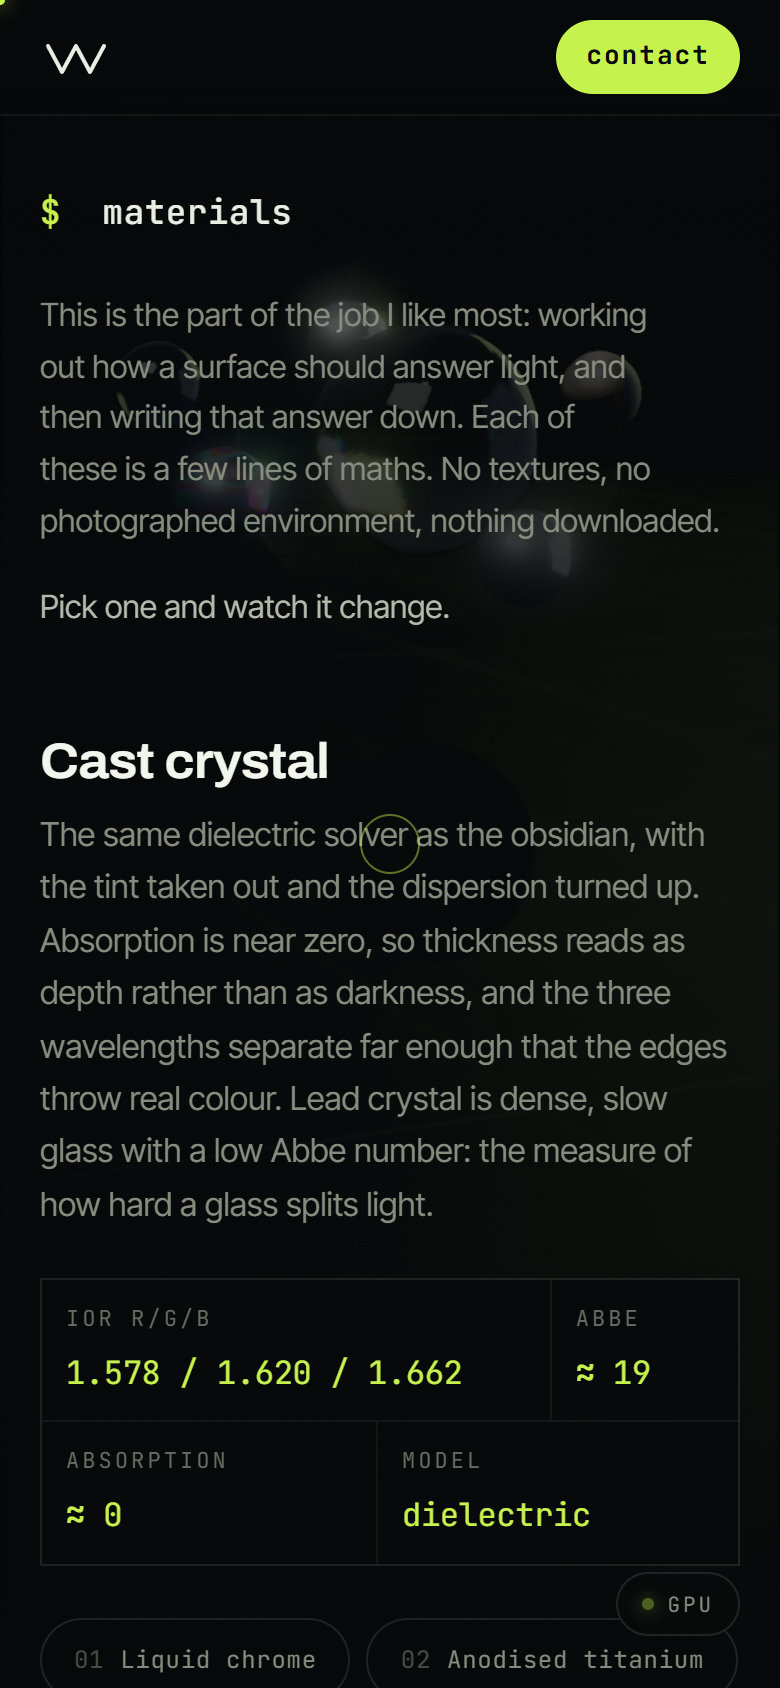
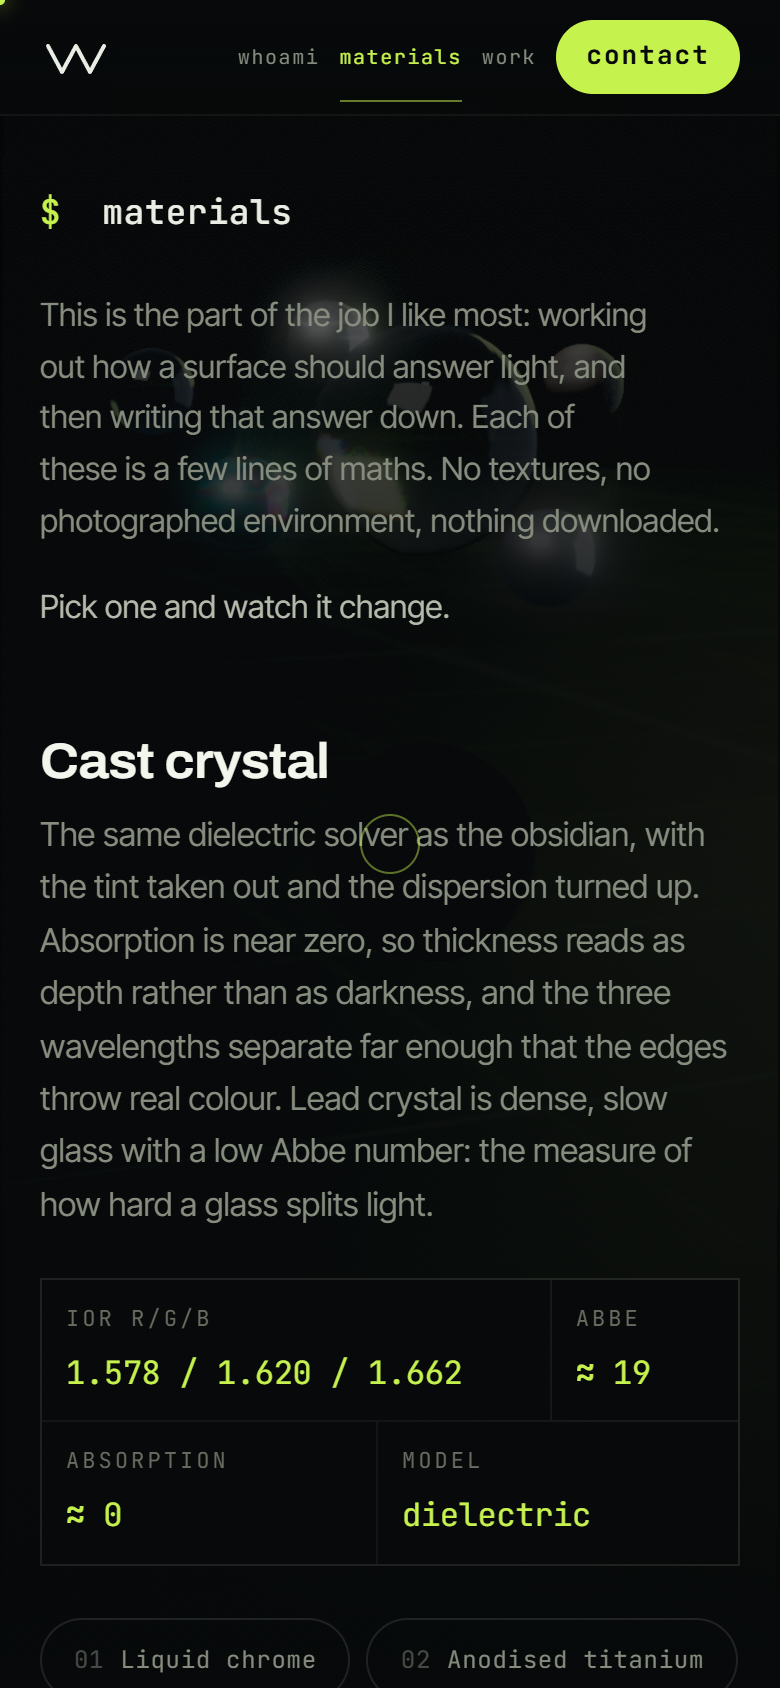
Make the site usable on a phone, which it was not
Auditing the layout at 390px is not the same as using a phone, and the
difference turned out to be most of the experience.

Every scroll swung the camera. A vertical drag is how a page is scrolled, and
the same handler read it as a drag to orbit: one ordinary swipe drove the pitch
to 0.697 against a limit of 0.7, so reading this page on a phone threw the
scene to its extreme tilt and let it drift back, over and over. A horizontal
swipe turned the view 4.1 radians. The gesture's axis is decided once now, on
the first movement worth calling a direction, and then held, so vertical
belongs to the page and horizontal orbits. Touch sensitivity came down by a
factor of five with it: a thumb travels much further than a mouse for the same
intent. Measured after: a vertical swipe leaves yaw and pitch at exactly zero.

There was no navigation. The rail is display:none on a phone and so were all
three section links, leaving the bar holding a contact button and nothing else,
with five sections reachable only by scrolling past everything in front of
them. They fit: at 11px the row measures 270px inside 390 and clears the
wordmark by twenty. The tap target is built out of padding rather than font
size, so the letters stay where the design wants them and the target is 44px.
Verified at 360, 390 and 430.

And there was a button that did nothing. The readout panel is hidden below
760px, being 262 pixels of developer telemetry with a graph in it and no
[…]

diff --git a/dist/artifact.html b/dist/artifact.html
@@ -920,8 +920,37 @@ body.cur-drag .c-lbl{ opacity:1; }
 
   .chip{ padding:11px 16px; }
   .mat-chips button{ padding:12px 16px; }
-  #nav nav a:not(.cta){ display:none; }
-  #hud{ display:none; }
+  /* These used to be hidden, which left a phone with no way to reach a
+     section short of scrolling past everything in front of it: the rail is
+     display:none here too, so the only thing left in the bar was the contact
+     button. They fit. At 11px with a tighter gap the row measures 270px
+     inside 390 and clears the wordmark by twenty.
+
+     The type is small, so the tap target is made out of padding rather than
+     out of font size: 44px tall inside a 58px bar, while the letters stay
+     where the design wants them. */
+  #nav nav{ gap:12px; }
+  #nav nav a:not(.cta){
+    display:inline-flex; align-items:center;
+    font-size:11px; padding:14px 0; min-height:44px;
+  }
+  @media (max-width:400px){
+    #nav nav{ gap:10px; }
+    #nav nav a:not(.cta){ font-size:10px; }
+  }
+  /* The readout is a 262px developer panel with a graph in it, and this is a
+     390px screen with no keyboard to press G on, so it does not come here.
+     The chip that opens it went on being drawn though: a control that does
+     nothing, sitting in the corner over whatever the page put there, eating
+     the tap meant for a material. Both go. */
+  #hud, #hud-toggle{ display:none; }
+
+  /* Two tap targets came in under the 24px floor: the wordmark at 22 and the
+     shortcuts button at 20. Padding, not type size, again. And the shortcuts
+     sheet lists keys, which is a strange offer to make to a device with no
+     keyboard, so on a phone it stops being offered. */
+  .nav-mark{ display:inline-flex; align-items:center; min-height:44px; }
+  .linkish[data-action="shortcuts"]{ display:none; }
   .sec{ padding:clamp(86px,11vh,132px) 0; }
 }
 
@@ -5244,8 +5273,14 @@ class Director {
 
   integrateOrbit(dt) {
     const o = this.orbit;
-    o.yaw += o.vy;
-    o.pitch = clamp(o.pitch + o.vp, -0.7, 1.0);
+    /* Scaled by dt, which it was not. Everything else in this file goes
+       through damp() precisely so it behaves the same at 30 fps and at 144;
+       these two lines added a whole frame's velocity per frame regardless,
+       so the same drag turned the camera two and a half times further on a
+       144 Hz panel than on a 60. The 60 keeps the tuning the constants were
+       chosen for. */
+    o.yaw += o.vy * dt * 60;
+    o.pitch = clamp(o.pitch + o.vp * dt * 60, -0.7, 1.0);
     o.vy = damp(o.vy, 0, 9, dt);
     o.vp = damp(o.vp, 0, 9, dt);
     // ease back toward the directed framing, slowly enough not to fight a drag
@@ -6134,6 +6169,7 @@ function wireInput() {
   const orbit = director.orbit;   // the director owns it; drag just adds velocity
 
   let dragging = false;
+  let dragAxis = null;   // 'x', 'y', or undecided; touch only
   let lastX = 0, lastY = 0;
   let downX = 0, downY = 0, downOrb = -1;
 
@@ -6146,8 +6182,29 @@ function wireInput() {
     director.mouse.inside = true;
 
     if (dragging) {
-      orbit.vy += (e.clientX - lastX) * 0.0045;
-      orbit.vp += (e.clientY - lastY) * 0.0035;
+      const dx = e.clientX - lastX, dy = e.clientY - lastY;
+      const touch = e.pointerType === 'touch';
+
+      /* On a touch screen a vertical drag is the page scrolling and nothing
+         else. Both used to happen at once: one ordinary scroll swipe drove
+         the pitch straight into its clamp, so reading this page on a phone
+         threw the scene to its extreme tilt and let it drift back, over and
+         over. Horizontal still orbits, because a horizontal swipe is a gesture
+         the page has no other use for.
+
+         The axis is decided once, on the first movement worth calling a
+         direction, and then held. Deciding per event makes a diagonal swipe
+         flicker between scrolling and orbiting. */
+      if (touch && dragAxis === null && Math.hypot(dx, dy) > 3) {
+        dragAxis = Math.abs(dx) > Math.abs(dy) ? 'x' : 'y';
+      }
+      if (!touch || dragAxis === 'x') {
+        // and a thumb travels much further than a mouse for the same intent
+        // a swipe across the whole screen should turn the view about a
+        // quarter turn, not a third of the way round the sculpture
+        orbit.vy += dx * (touch ? 0.0009 : 0.0045);
+        if (!touch) orbit.vp += dy * 0.0035;
+      }
       lastX = e.clientX; lastY = e.clientY;
     }
 
@@ -6167,6 +6224,7 @@ function wireInput() {
     // let the DOM have its clicks; only bare canvas starts a drag
     if (e.target.closest('a, button, input, #sheet, #hud')) return;
     dragging = true;
+    dragAxis = null;
     director.mouse.down = true;
     lastX = e.clientX; lastY = e.clientY;
     downX = e.clientX; downY = e.clientY;

diff --git a/dist/winch.html b/dist/winch.html
@@ -925,8 +925,37 @@ body.cur-drag .c-lbl{ opacity:1; }
 
   .chip{ padding:11px 16px; }
   .mat-chips button{ padding:12px 16px; }
-  #nav nav a:not(.cta){ display:none; }
-  #hud{ display:none; }
+  /* These used to be hidden, which left a phone with no way to reach a
+     section short of scrolling past everything in front of it: the rail is
+     display:none here too, so the only thing left in the bar was the contact
+     button. They fit. At 11px with a tighter gap the row measures 270px
+     inside 390 and clears the wordmark by twenty.
+
+     The type is small, so the tap target is made out of padding rather than
+     out of font size: 44px tall inside a 58px bar, while the letters stay
+     where the design wants them. */
+  #nav nav{ gap:12px; }
+  #nav nav a:not(.cta){
+    display:inline-flex; align-items:center;
+    font-size:11px; padding:14px 0; min-height:44px;
+  }
+  @media (max-width:400px){
+    #nav nav{ gap:10px; }
+    #nav nav a:not(.cta){ font-size:10px; }
+  }
+  /* The readout is a 262px developer panel with a graph in it, and this is a
+     390px screen with no keyboard to press G on, so it does not come here.
+     The chip that opens it went on being drawn though: a control that does
+     nothing, sitting in the corner over whatever the page put there, eating
+     the tap meant for a material. Both go. */
+  #hud, #hud-toggle{ display:none; }
+
+  /* Two tap targets came in under the 24px floor: the wordmark at 22 and the
+     shortcuts button at 20. Padding, not type size, again. And the shortcuts
+     sheet lists keys, which is a strange offer to make to a device with no
+     keyboard, so on a phone it stops being offered. */
+  .nav-mark{ display:inline-flex; align-items:center; min-height:44px; }
+  .linkish[data-action="shortcuts"]{ display:none; }
   .sec{ padding:clamp(86px,11vh,132px) 0; }
 }
 
@@ -5251,8 +5280,14 @@ class Director {
 
   integrateOrbit(dt) {
     const o = this.orbit;
-    o.yaw += o.vy;
-    o.pitch = clamp(o.pitch + o.vp, -0.7, 1.0);
+    /* Scaled by dt, which it was not. Everything else in this file goes
+       through damp() precisely so it behaves the same at 30 fps and at 144;
+       these two lines added a whole frame's velocity per frame regardless,
+       so the same drag turned the camera two and a half times further on a
+       144 Hz panel than on a 60. The 60 keeps the tuning the constants were
+       chosen for. */
+    o.yaw += o.vy * dt * 60;
+    o.pitch = clamp(o.pitch + o.vp * dt * 60, -0.7, 1.0);
     o.vy = damp(o.vy, 0, 9, dt);
     o.vp = damp(o.vp, 0, 9, dt);
     // ease back toward the directed framing, slowly enough not to fight a drag
@@ -6141,6 +6176,7 @@ function wireInput() {
   const orbit = director.orbit;   // the director owns it; drag just adds velocity
 
   let dragging = false;
+  let dragAxis = null;   // 'x', 'y', or undecided; touch only
   let lastX = 0, lastY = 0;
   let downX = 0, downY = 0, downOrb = -1;
 
@@ -6153,8 +6189,29 @@ function wireInput() {
     director.mouse.inside = true;
 
     if (dragging) {
-      orbit.vy += (e.clientX - lastX) * 0.0045;
-      orbit.vp += (e.clientY - lastY) * 0.0035;
+      const dx = e.clientX - lastX, dy = e.clientY - lastY;
+      const touch = e.pointerType === 'touch';
+
+      /* On a touch screen a vertical drag is the page scrolling and nothing
+         else. Both used to happen at once: one ordinary scroll swipe drove
+         the pitch straight into its clamp, so reading this page on a phone
+         threw the scene to its extreme tilt and let it drift back, over and
+         over. Horizontal still orbits, because a horizontal swipe is a gesture
+         the page has no other use for.
+
+         The axis is decided once, on the first movement worth calling a
+         direction, and then held. Deciding per event makes a diagonal swipe
+         flicker between scrolling and orbiting. */
+      if (touch && dragAxis === null && Math.hypot(dx, dy) > 3) {
+        dragAxis = Math.abs(dx) > Math.abs(dy) ? 'x' : 'y';
+      }
+      if (!touch || dragAxis === 'x') {
+        // and a thumb travels much further than a mouse for the same intent
+        // a swipe across the whole screen should turn the view about a
+        // quarter turn, not a third of the way round the sculpture
+        orbit.vy += dx * (touch ? 0.0009 : 0.0045);
+        if (!touch) orbit.vp += dy * 0.0035;
+      }
       lastX = e.clientX; lastY = e.clientY;
     }
 
@@ -6174,6 +6231,7 @@ function wireInput() {
     // let the DOM have its clicks; only bare canvas starts a drag
     if (e.target.closest('a, button, input, #sheet, #hud')) return;
     dragging = true;
+    dragAxis = null;
     director.mouse.down = true;
     lastX = e.clientX; lastY = e.clientY;
     downX = e.clientX; downY = e.clientY;

diff --git a/js/main.js b/js/main.js
@@ -199,6 +199,7 @@ function wireInput() {
   const orbit = director.orbit;   // the director owns it; drag just adds velocity
 
   let dragging = false;
+  let dragAxis = null;   // 'x', 'y', or undecided; touch only
   let lastX = 0, lastY = 0;
   let downX = 0, downY = 0, downOrb = -1;
 
@@ -211,8 +212,29 @@ function wireInput() {
     director.mouse.inside = true;
 
     if (dragging) {
-      orbit.vy += (e.clientX - lastX) * 0.0045;
-      orbit.vp += (e.clientY - lastY) * 0.0035;
+      const dx = e.clientX - lastX, dy = e.clientY - lastY;
+      const touch = e.pointerType === 'touch';
+
+      /* On a touch screen a vertical drag is the page scrolling and nothing
+         else. Both used to happen at once: one ordinary scroll swipe drove
+         the pitch straight into its clamp, so reading this page on a phone
+         threw the scene to its extreme tilt and let it drift back, over and
+         over. Horizontal still orbits, because a horizontal swipe is a gesture
+         the page has no other use for.
+
+         The axis is decided once, on the first movement worth calling a
+         direction, and then held. Deciding per event makes a diagonal swipe
+         flicker between scrolling and orbiting. */
+      if (touch && dragAxis === null && Math.hypot(dx, dy) > 3) {
+        dragAxis = Math.abs(dx) > Math.abs(dy) ? 'x' : 'y';
+      }
+      if (!touch || dragAxis === 'x') {
+        // and a thumb travels much further than a mouse for the same intent
+        // a swipe across the whole screen should turn the view about a
+        // quarter turn, not a third of the way round the sculpture
+        orbit.vy += dx * (touch ? 0.0009 : 0.0045);
+        if (!touch) orbit.vp += dy * 0.0035;
+      }
       lastX = e.clientX; lastY = e.clientY;
     }
 
@@ -232,6 +254,7 @@ function wireInput() {
     // let the DOM have its clicks; only bare canvas starts a drag
     if (e.target.closest('a, button, input, #sheet, #hud')) return;
     dragging = true;
+    dragAxis = null;
     director.mouse.down = true;
     lastX = e.clientX; lastY = e.clientY;
     downX = e.clientX; downY = e.clientY;

diff --git a/css/main.css b/css/main.css
@@ -900,8 +900,37 @@ body.cur-drag .c-lbl{ opacity:1; }
 
   .chip{ padding:11px 16px; }
   .mat-chips button{ padding:12px 16px; }
-  #nav nav a:not(.cta){ display:none; }
-  #hud{ display:none; }
+  /* These used to be hidden, which left a phone with no way to reach a
+     section short of scrolling past everything in front of it: the rail is
+     display:none here too, so the only thing left in the bar was the contact
+     button. They fit. At 11px with a tighter gap the row measures 270px
+     inside 390 and clears the wordmark by twenty.
+
+     The type is small, so the tap target is made out of padding rather than
+     out of font size: 44px tall inside a 58px bar, while the letters stay
+     where the design wants them. */
+  #nav nav{ gap:12px; }
+  #nav nav a:not(.cta){
+    display:inline-flex; align-items:center;
+    font-size:11px; padding:14px 0; min-height:44px;
+  }
+  @media (max-width:400px){
+    #nav nav{ gap:10px; }
+    #nav nav a:not(.cta){ font-size:10px; }
+  }
+  /* The readout is a 262px developer panel with a graph in it, and this is a
+     390px screen with no keyboard to press G on, so it does not come here.
+     The chip that opens it went on being drawn though: a control that does
+     nothing, sitting in the corner over whatever the page put there, eating
+     the tap meant for a material. Both go. */
+  #hud, #hud-toggle{ display:none; }
+
+  /* Two tap targets came in under the 24px floor: the wordmark at 22 and the
+     shortcuts button at 20. Padding, not type size, again. And the shortcuts
+     sheet lists keys, which is a strange offer to make to a device with no
+     keyboard, so on a phone it stops being offered. */
+  .nav-mark{ display:inline-flex; align-items:center; min-height:44px; }
+  .linkish[data-action="shortcuts"]{ display:none; }
   .sec{ padding:clamp(86px,11vh,132px) 0; }
 }
 

diff --git a/js/director.js b/js/director.js
@@ -458,8 +458,14 @@ export class Director {
 
   integrateOrbit(dt) {
     const o = this.orbit;
-    o.yaw += o.vy;
-    o.pitch = clamp(o.pitch + o.vp, -0.7, 1.0);
+    /* Scaled by dt, which it was not. Everything else in this file goes
+       through damp() precisely so it behaves the same at 30 fps and at 144;
+       these two lines added a whole frame's velocity per frame regardless,
+       so the same drag turned the camera two and a half times further on a
+       144 Hz panel than on a 60. The 60 keeps the tuning the constants were
+       chosen for. */
+    o.yaw += o.vy * dt * 60;
+    o.pitch = clamp(o.pitch + o.vp * dt * 60, -0.7, 1.0);
     o.vy = damp(o.vy, 0, 9, dt);
     o.vp = damp(o.vp, 0, 9, dt);
     // ease back toward the directed framing, slowly enough not to fight a drag

diff --git a/README.md b/README.md
@@ -375,8 +375,41 @@ the two lines including its neighbours' text, so comparing those unions
 reports every wrapped inline as fully overlapping its siblings.
 `getClientRects()` gives the real boxes.
 
-Currently clean at 2560×1440, 1920×1080, 1366×768, 768×1024, 390×844 and
-360×740.
+Currently clean at 2560×1440, 1920×1080, 1366×768, 768×1024, 430×932, 390×844
+and 360×740, with no tap target under 24px on any of the phone sizes.
+
+### What a phone was actually getting
+
+Auditing the layout on a phone is not the same as using one, and the
+difference turned out to be most of the experience.
+
+Every scroll swung the camera. A vertical drag is how you scroll a page, and
+the same handler was reading it as a drag to orbit: one ordinary swipe drove
+the pitch to 0.697 against a limit of 0.7, so reading this page on a phone
+threw the scene to its extreme tilt and let it drift back, over and over. The
+gesture's axis is decided once now, on the first movement worth calling a
+direction, and held: vertical belongs to the page, horizontal orbits. Touch
+sensitivity came down with it, because a thumb travels much further than a
+mouse for the same intent.
+
+There was no navigation. The rail is `display:none` on a phone and so were all
+three section links, which left the bar holding one contact button and nothing
+else: five sections reachable only by scrolling past everything in front of
+them. They fit, as it turns out. At 11px the row measures 270px inside 390 and
+clears the wordmark by twenty, and the tap target is built out of padding
+rather than font size, so the letters stay where the design wants them and the
+target is 44px tall.
+
+And there was a button that did nothing. The readout panel is hidden below
+760px, being 262 pixels of developer telemetry with a graph in it. The chip
+that opens it was not hidden, so tapping it toggled a class and produced no
+visible result, while sitting in the corner over whatever the page had put
+there and eating the tap meant for a material.
+
+The camera integration was also frame-rate dependent, which this codebase
+elsewhere goes to some trouble to avoid: `o.yaw += o.vy` with no `dt` in it
+turns the view two and a half times further on a 144 Hz panel than on a 60 for
+the same drag.
 
 ### The harness was timing its own leftovers
 
